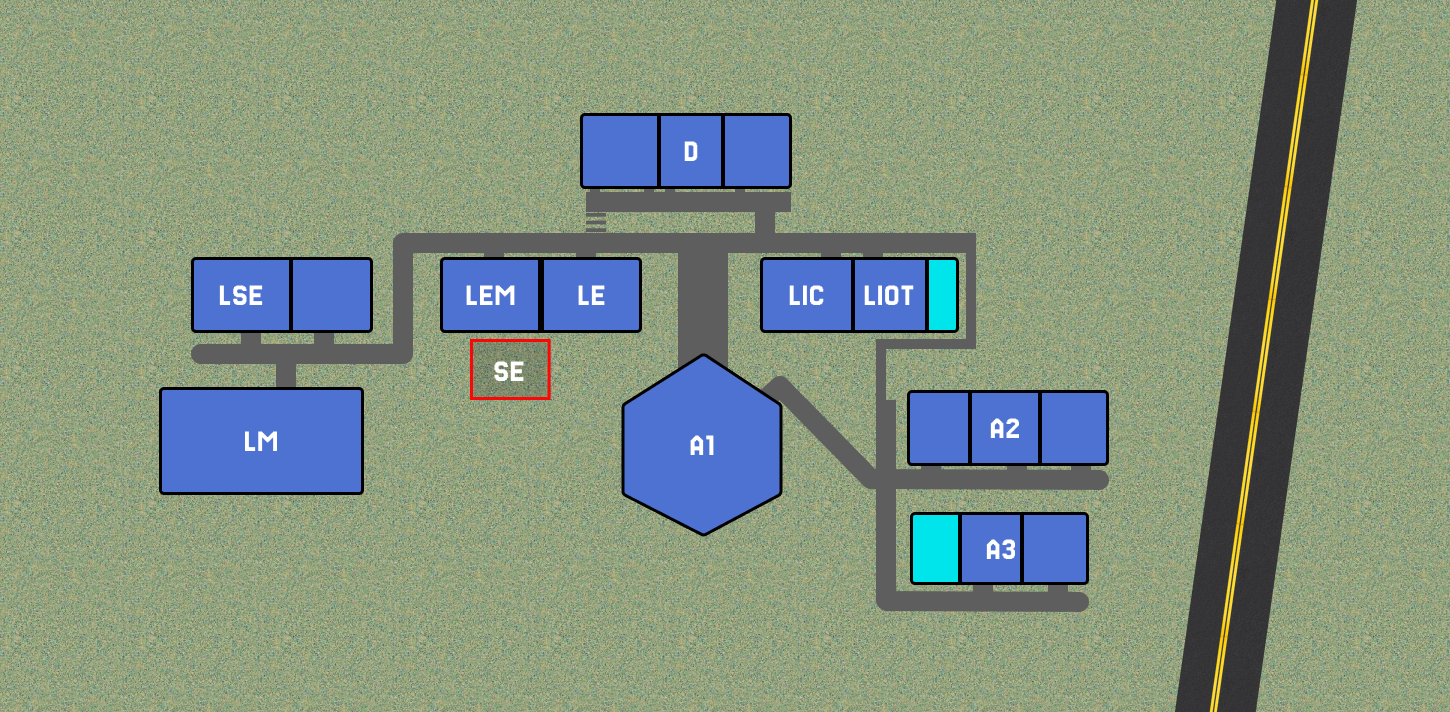
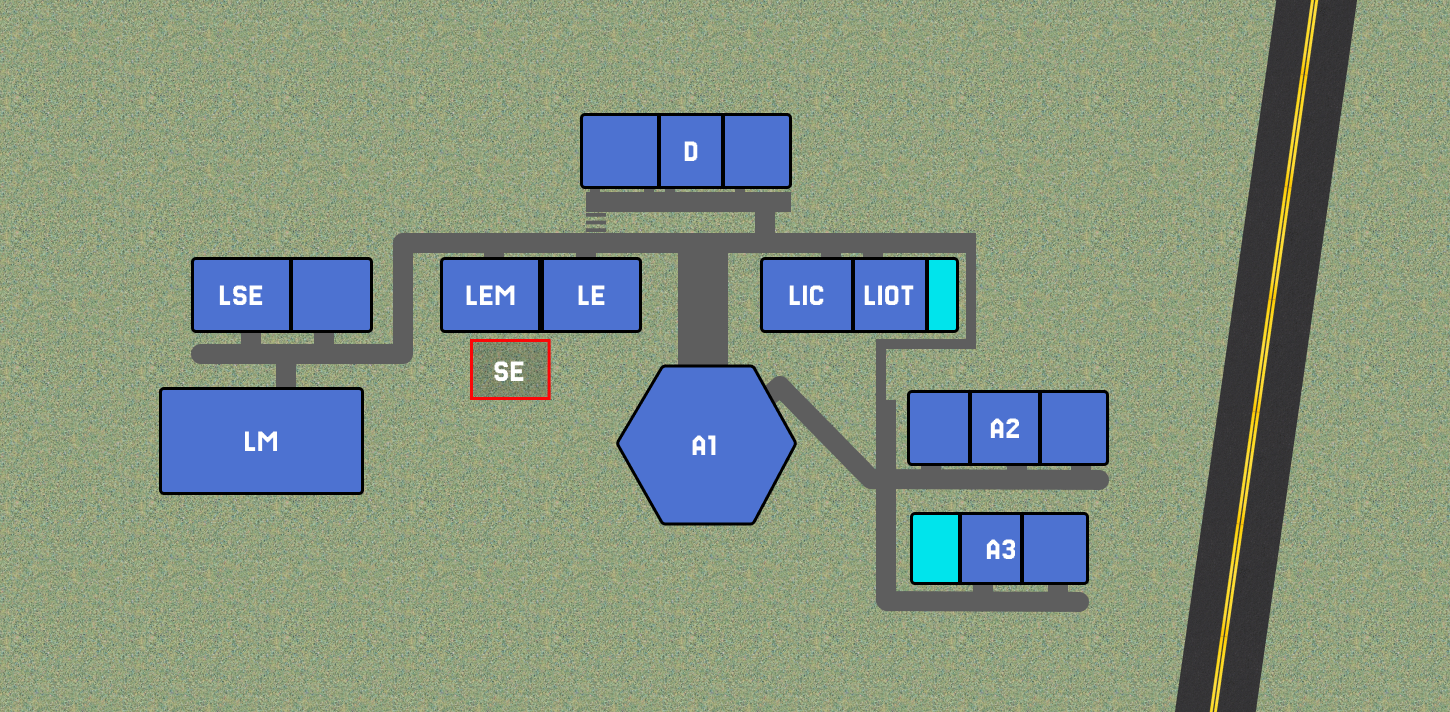
Minor fix to map

Changed region(s): [[0.4034, 0.4944, 0.5276, 0.7725], [0.5276, 0.5562, 0.5586, 0.7107], [0.4655, 0.618, 0.4966, 0.6489]]

diff --git a/src/screens/campus_map_screen.js b/src/screens/campus_map_screen.js
@@ -20,6 +20,7 @@ import { fetchLatestData } from "../data/energy_data";
 import { authService } from "../../lib/auth";
 
 import { ImageBackground } from "react-native";
+import Svg, { Polygon, Text as SvgText } from "react-native-svg";
 const mapImage = require("../../assets/MapConcept2.png");
 const { width } = Dimensions.get("window");
 
@@ -32,7 +33,7 @@ const MAP_HEIGHT = 712;
 const campusBuildingsConfig = [
   // Ids originales (conservados)
   {
-    id: "photon-001", name: "Edificio Principal (A1)",code: "A1", position: { x: 640, y: 390 }, shape: "diamond", size: { w: 120, h: 120 },
+    id: "photon-001", name: "Edificio Principal (A1)",code: "A1", position: { x: 621, y: 368   }, shape: "hex", size: { w: 174, h: 154 },
   },
   {
     id: 1, name: "Aulas (A2)",code: "A2", position: { x: 908, y: 390}, size: { w: 200, h: 75 },
@@ -314,6 +315,57 @@ const CampusMapScreen = ({ navigation }) => {
                     {(buildingsData.length ? buildingsData : campusBuildingsConfig).map((b) => {
                       const pos = b.position || { x: 0, y: 0 };
                       const size = b.size || { w: 80, h: 40 }; // ajustable
+
+                      // Forma del edifico A1 hexagonal
+                      if (b.shape === "hex") {
+                        const w = size.w;
+                        const h = size.h;
+                        const points = `${w * 0.25},0 ${w * 0.75},0 ${w},${h * 0.5} ${w * 0.75},${h} ${w * 0.25},${h} 0,${h * 0.5}`;
+                        return (
+                          <Svg
+                            key={b.id}
+                            style={{ position: "absolute", left: pos.x, top: pos.y, width: w, height: h }}
+                            viewBox={`0 0 ${w} ${h}`}
+                          >
+                            <Polygon
+                              points={points}
+                              fill= "#6b7280"
+                              opacity={0.35}
+                              stroke="#000"
+                              strokeWidth={2}
+                              onPress={() =>
+                                navigation.navigate("BuildingDashboard", {
+                                  buildingId: b.id,
+                                  buildingName: b.name,
+                                  buildingData: b,
+                                })
+                              }
+                            />
+                            <SvgText
+                              x={w / 2}
+                              y={h / 2 - 4}
+                              fill="#fff"
+                              fontFamily="Arial"
+                              fontWeight="800"
+                              fontSize={14}
+                              textAnchor="middle"
+                            >
+                              {b.code}
+                            </SvgText>
+                            <SvgText
+                              x={w / 2}
+                              y={h / 2 + 12}
+                              fill="#e2e8f0"
+                              fontFamily="Arial"
+                              fontWeight={600}
+                              fontSize={10}
+                              textAnchor="middle"
+                            >
+                              {(b.consumption || 0).toFixed(1)} kWh
+                            </SvgText>
+                          </Svg>
+                        );
+                      }
 
                       return (
                         <TouchableOpacity
